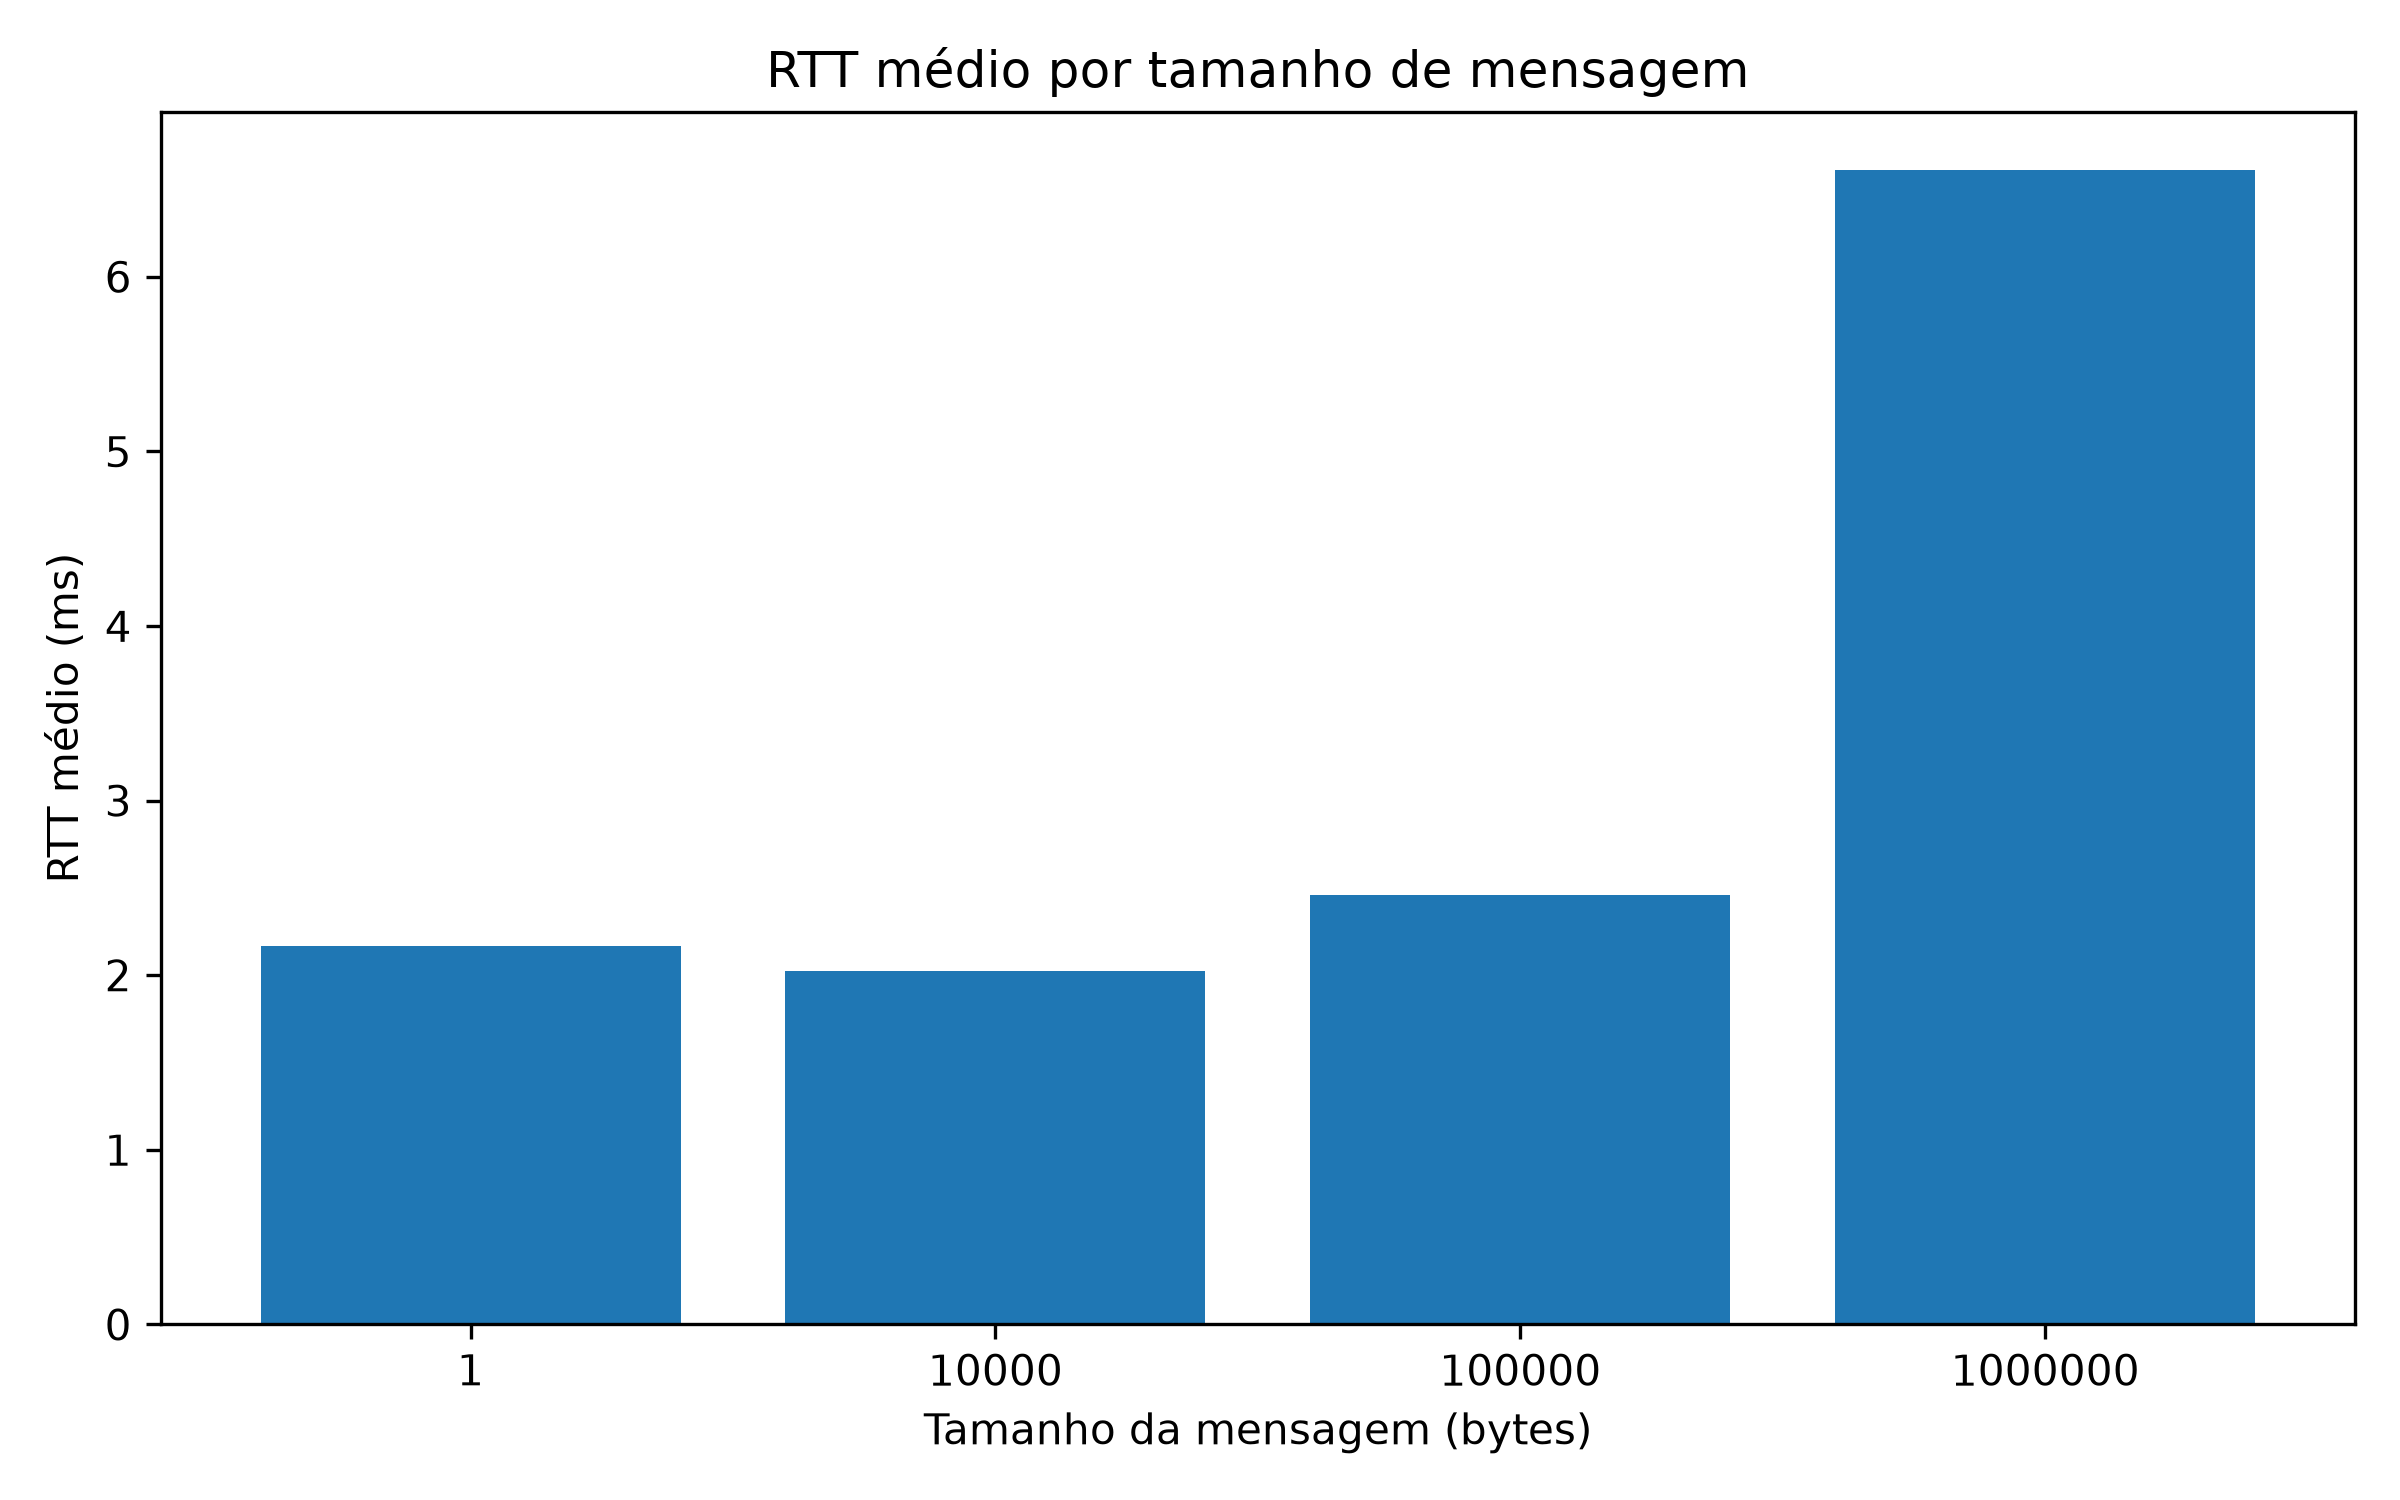
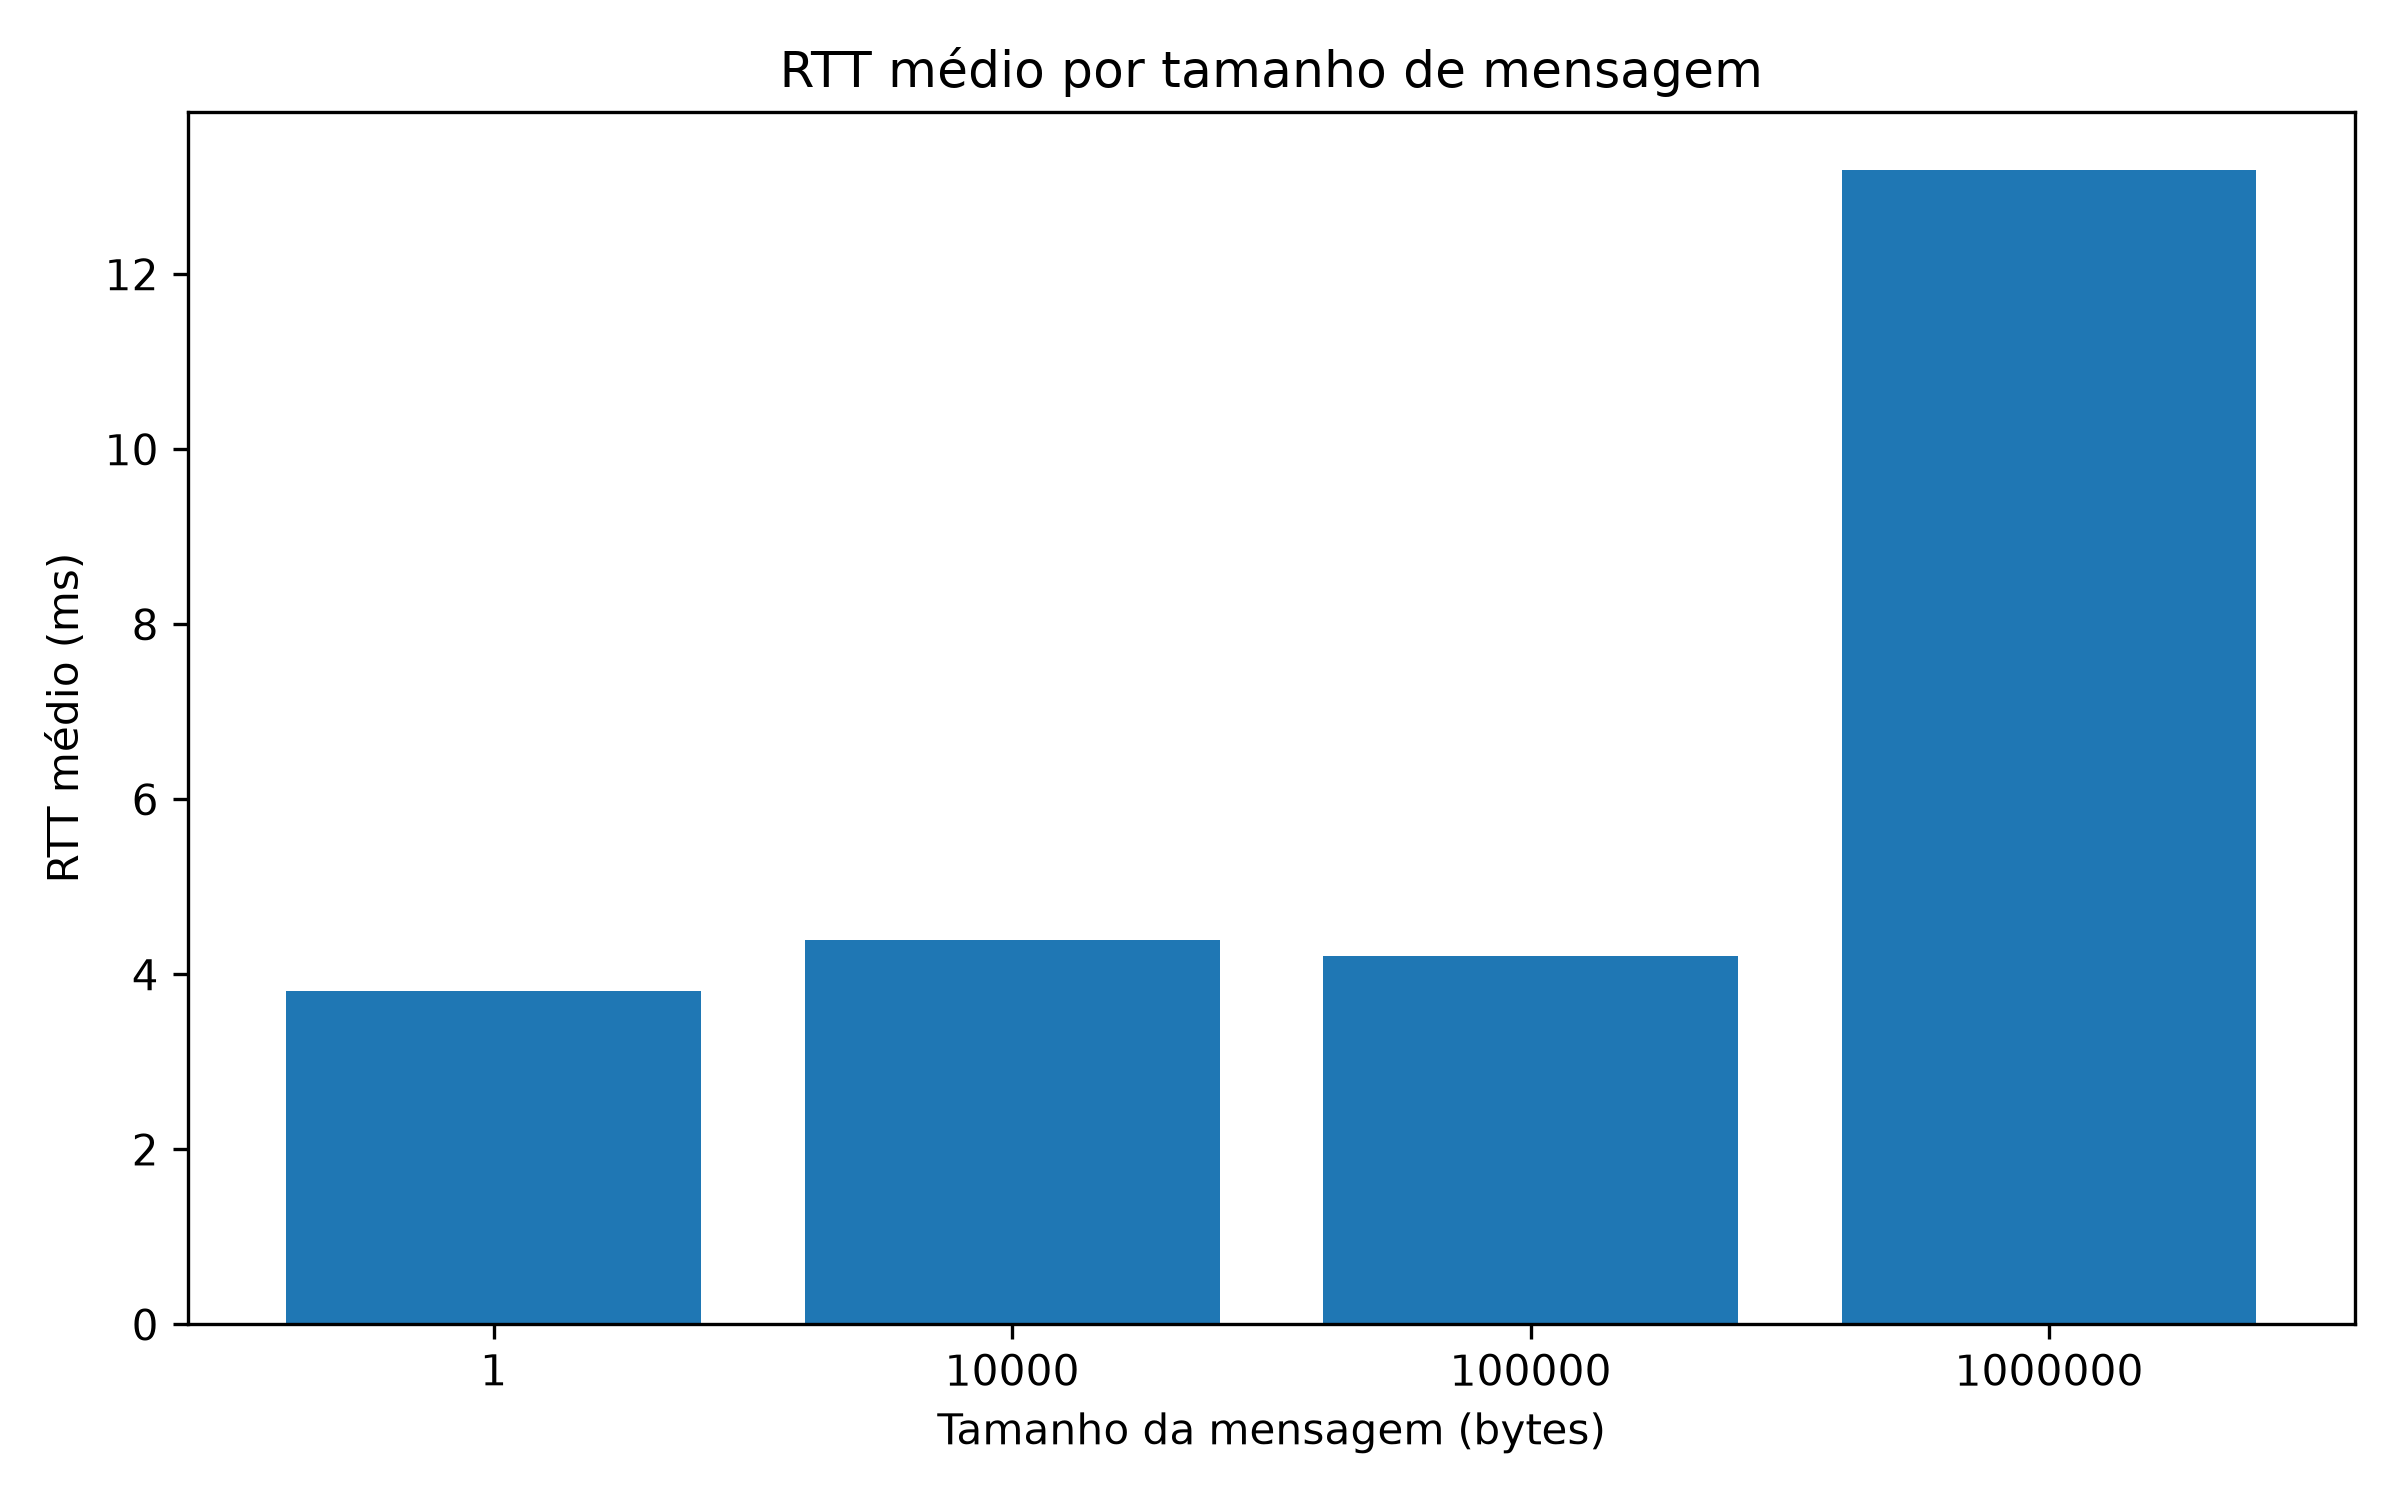
adicionar comentarios e atualizar readme

diff --git a/server.py b/server.py
@@ -1,12 +1,13 @@
 import grpc
 from concurrent import futures
 from datetime import datetime, timezone #precisa para timestamp
-import benchmark_pb2
-import benchmark_pb2_grpc
+import benchmark_pb2 #mensagens definidas no proto
+import benchmark_pb2_grpc #classes e funcoes do servico grpc
 
-
+#serviço benchmark definico pelo benchmark.proto
 class BenchmarkServicer(benchmark_pb2_grpc.BenchmarkServicer):
 
+#metodo remoto enviar
     def Enviar(self, request, context):
         #tamanho do payload recebido em bytes.
         tamanho = len(request.carga_util)
@@ -27,20 +28,22 @@ class BenchmarkServicer(benchmark_pb2_grpc.BenchmarkServicer):
             tamanho_bytes=tamanho,
             timestamp=timestamp
         )
-        #return benchmark_pb2.Confirmacao(recebido=True)
 
-
+#cria e inicia o servidor grpc
 def servir(host="127.0.0.1", porta=50051):
     servidor = grpc.server(
         futures.ThreadPoolExecutor(max_workers=10)
     )
 
+    #registra o servico no servidor grpc
     benchmark_pb2_grpc.add_BenchmarkServicer_to_server(
         BenchmarkServicer(),
         servidor
     )
 
+    #montagem de endereço no formato
     endereco = f"{host}:{porta}"
+    #porta definida pro servidor aceitar conexoes
     servidor.add_insecure_port(endereco)
 
     servidor.start()
@@ -48,6 +51,7 @@ def servir(host="127.0.0.1", porta=50051):
     print(f"Servidor gRPC iniciado em {endereco}")
     print("Aguardando mensagens...")
 
+    #mantem o servidor aberto e aguardando requisicoes
     servidor.wait_for_termination()
 
 

diff --git a/analise.py b/analise.py
@@ -1,28 +1,36 @@
 import pandas as pd
 import matplotlib.pyplot as plt
 
+#le resultados do experimento armazenados no arquivo CSV
 dados = pd.read_csv("benchmark.log")
 
+#agrupa medicoes por tamanho da mensagem e calcula RTT medio
 medias = dados.groupby("tamanho_bytes")["rtt_ms"].mean()
 
+#exibe no terminal o RTT medio para cada tamanho da mensagem
 print("RTT médio por tamanho de mensagem:")
 
 for tamanho, media in medias.items():
     print(f"{tamanho} bytes: {media:.3f} ms")
 
+#cria a figura do gráfico
 plt.figure(figsize=(8, 5))
 
+#cria o grafico de barras com o tamanho da mensagem no eixo x e o RTT medio no y
 plt.bar(
     [str(tamanho) for tamanho in medias.index],
     medias.values
 )
 
+#titulos e eixos do grafico
 plt.xlabel("Tamanho da mensagem (bytes)")
 plt.ylabel("RTT médio (ms)")
 plt.title("RTT médio por tamanho de mensagem")
 
+#ajuste de espacmento
 plt.tight_layout()
 
+#salva grafico em imagem
 plt.savefig("rtt_medio.png", dpi=300)
 
 print("\nGráfico salvo em rtt_medio.png")
